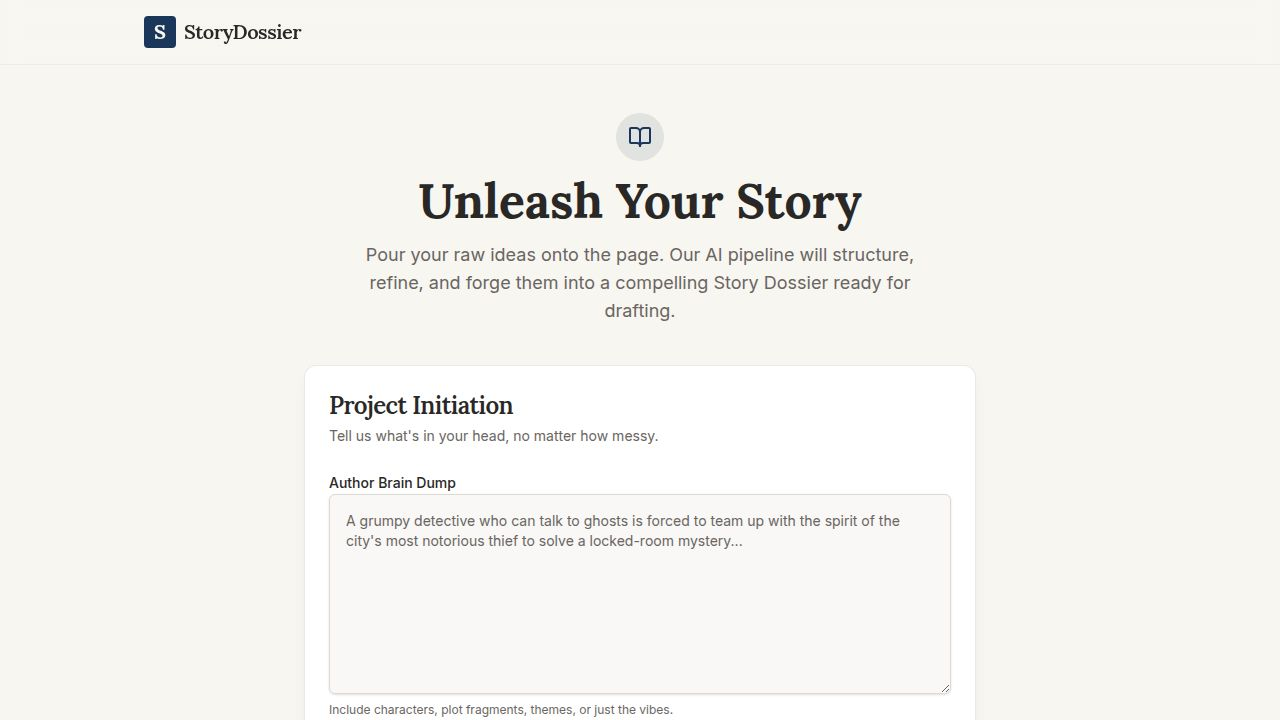
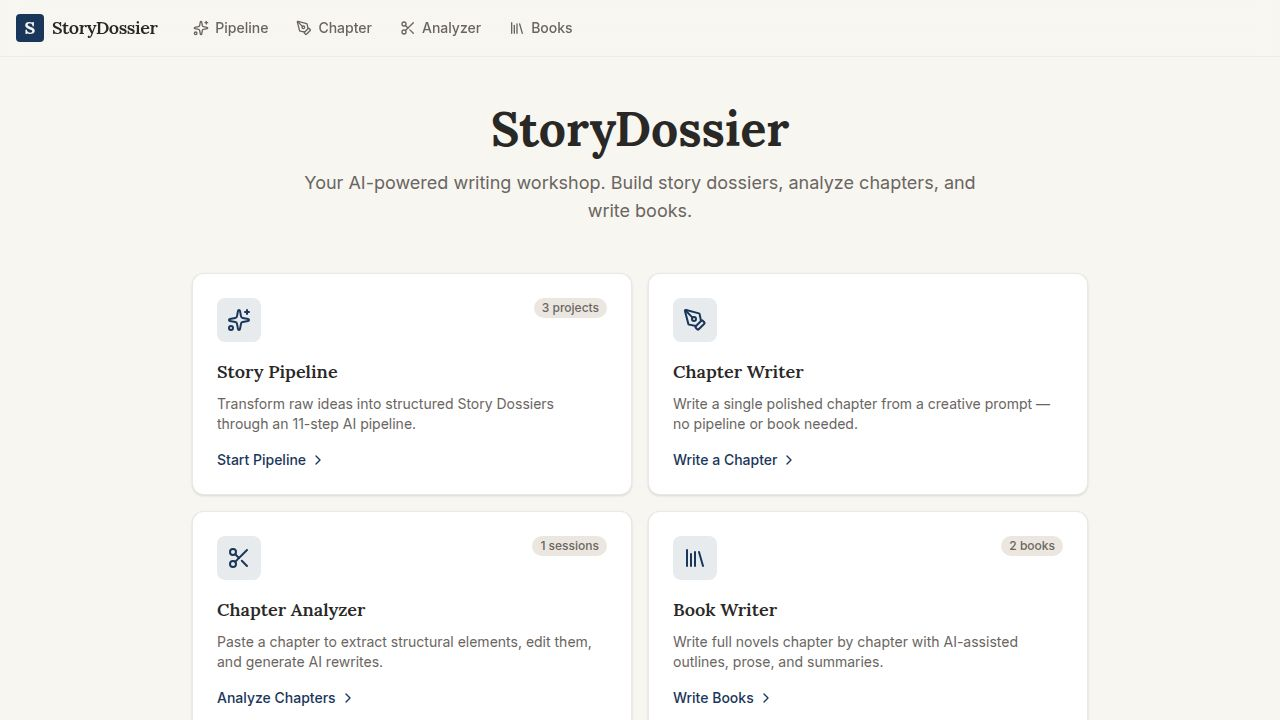
Update the story writing process to target 32 chapters
Modify the autopilot default chapter count to 32 and update the outline generation prompt to include explicit 32-chapter pacing guidance.

Replit-Commit-Author: Agent
Replit-Commit-Session-Id: 50fd8939-5c05-4a4a-bd97-b3a4fff9a3c7
Replit-Commit-Checkpoint-Type: full_checkpoint
Replit-Commit-Event-Id: 50e51999-0600-49b5-a44a-a987a253babe
Replit-Commit-Screenshot-Url: https://storage.googleapis.com/screenshot-production-us-central1/6b45fd1f-203a-4ee1-8d3a-589aa8883241/50fd8939-5c05-4a4a-bd97-b3a4fff9a3c7/SjAww2q
Replit-Helium-Checkpoint-Created: true

diff --git a/server/routes.ts b/server/routes.ts
@@ -504,7 +504,9 @@ ${CONTEXT_ENGINEERING_RULES}
 ${DEFAULT_DECISION_RULE}
 
 INSTRUCTIONS:
-- Based on the dossier's plot beats, determine what should happen in Chapter ${nextNum}
+- This novel targets 32 chapters total. Chapter ${nextNum} of 32 — pace the story accordingly
+- Based on the dossier's plot beats, determine what should happen at this point in a 32-chapter arc
+- Structure guidance: Chapters 1-3 setup/hook, 4-8 rising action, 9-10 first pinch point, 11-16 midpoint build, 17-18 midpoint reversal, 19-24 escalation, 25-26 second pinch point, 27-30 climax sequence, 31-32 resolution/denouement
 - Consider where the story is right now based on previous chapter summaries
 - Apply the character arc engine: what stage of the protagonist's Lie→Truth journey is this chapter? Are they still in the grip of the Lie, getting a glimpse of the Truth, or being tested?
 - Each scene in the outline must have a clear Goal, Conflict, and Outcome (value shift)

diff --git a/client/src/pages/BookWriter.tsx b/client/src/pages/BookWriter.tsx
@@ -210,7 +210,7 @@ export default function BookWriter() {
     setGenerating(null);
   };
 
-  const handleAutopilot = async (maxChapters: number = 30) => {
+  const handleAutopilot = async (maxChapters: number = 32) => {
     if (!bookId || !book) return;
     autopilotCancelRef.current = false;
     setAutopilot(true);

diff --git a/replit.md b/replit.md
@@ -36,7 +36,7 @@ Paste a chapter → Claude extracts 18 structural elements → user edits/adds/r
 ### Book Writer
 Takes a completed dossier + brain dump, writes the book chapter by chapter. Each chapter uses running summaries of previous chapters (not full text) for context. Split-panel UI: chapter text on left, summary/high points/changes on right. Flow: generate outline → adjust narrative sliders → write chapter → summarize → next chapter.
 
-**Autopilot mode**: "Write Entire Book" / "Write Remaining" button runs the full chapter loop automatically (outline → write → summarize → next) without user intervention. Cancellable mid-run. Shows live progress status in sidebar.
+**Autopilot mode**: "Write Entire Book" / "Write Remaining" button runs the full 32-chapter loop automatically (outline → write → summarize → next) without user intervention. Cancellable mid-run. Shows live progress status in sidebar. Outline prompt includes 32-chapter pacing structure (setup → rising action → pinch points → midpoint → escalation → climax → resolution).
 
 **Context strategy**: Each chapter prompt receives dossier (characters/world/themes/plot beats), brain dump, ALL previous chapter summaries (compact with sliding window), current chapter outline, and narrative slider values. Avoids token limits while maintaining narrative continuity.
 